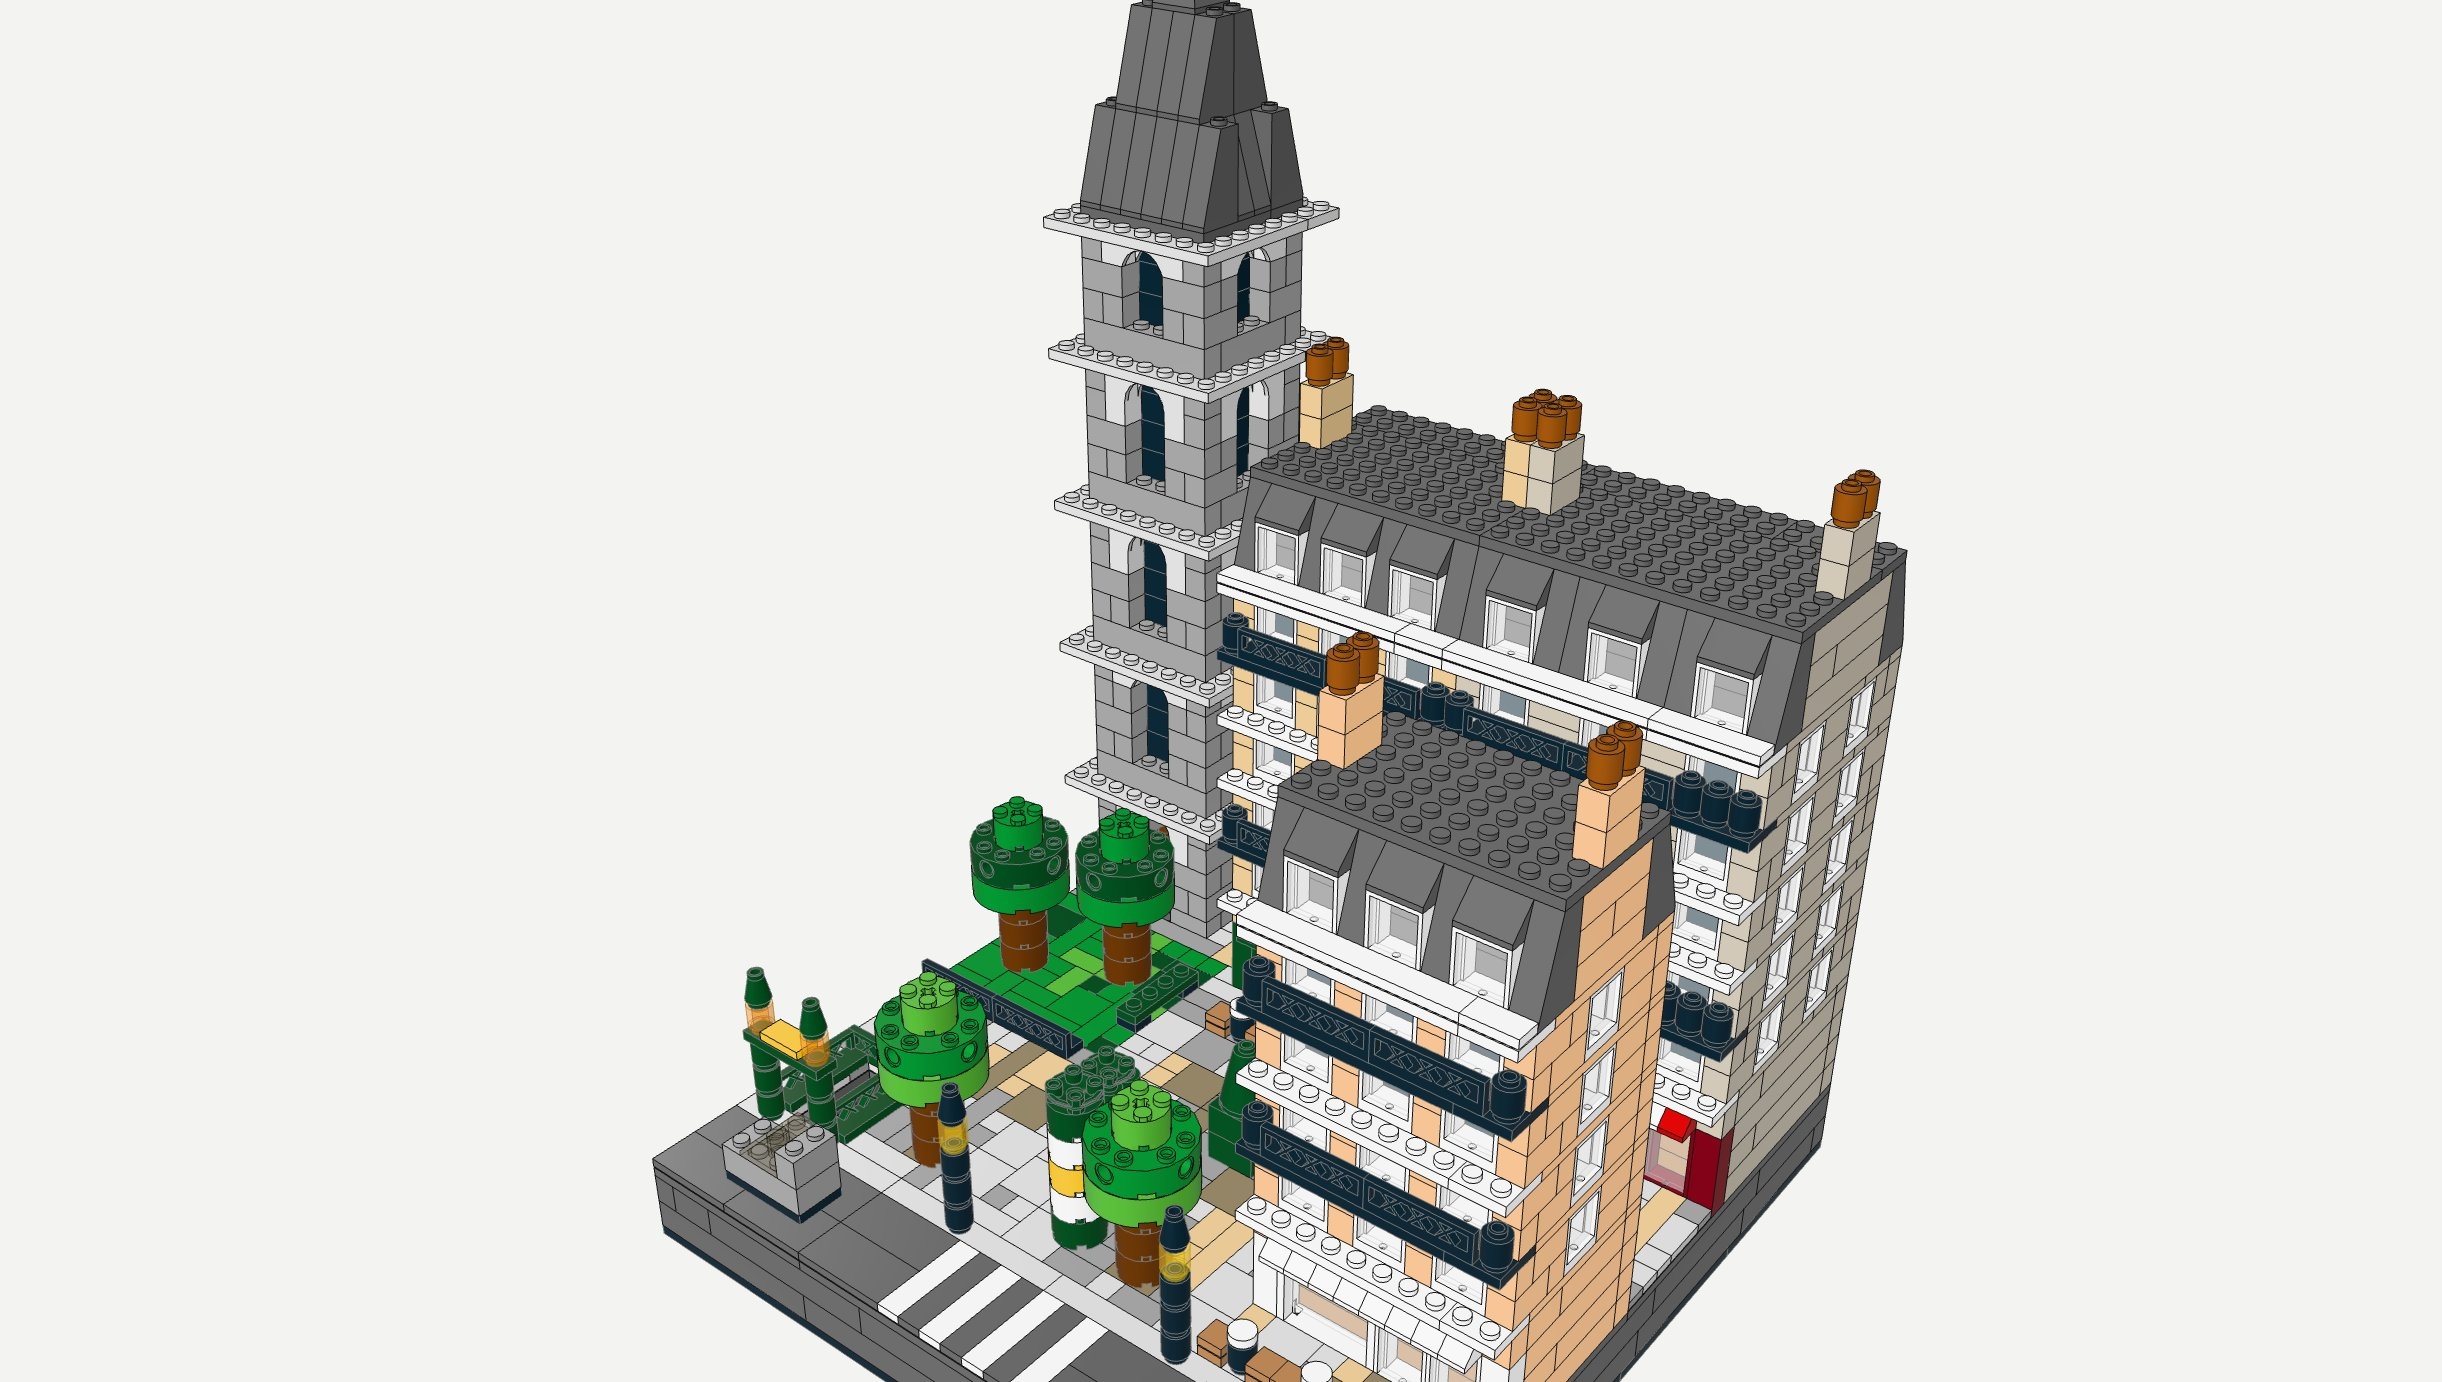
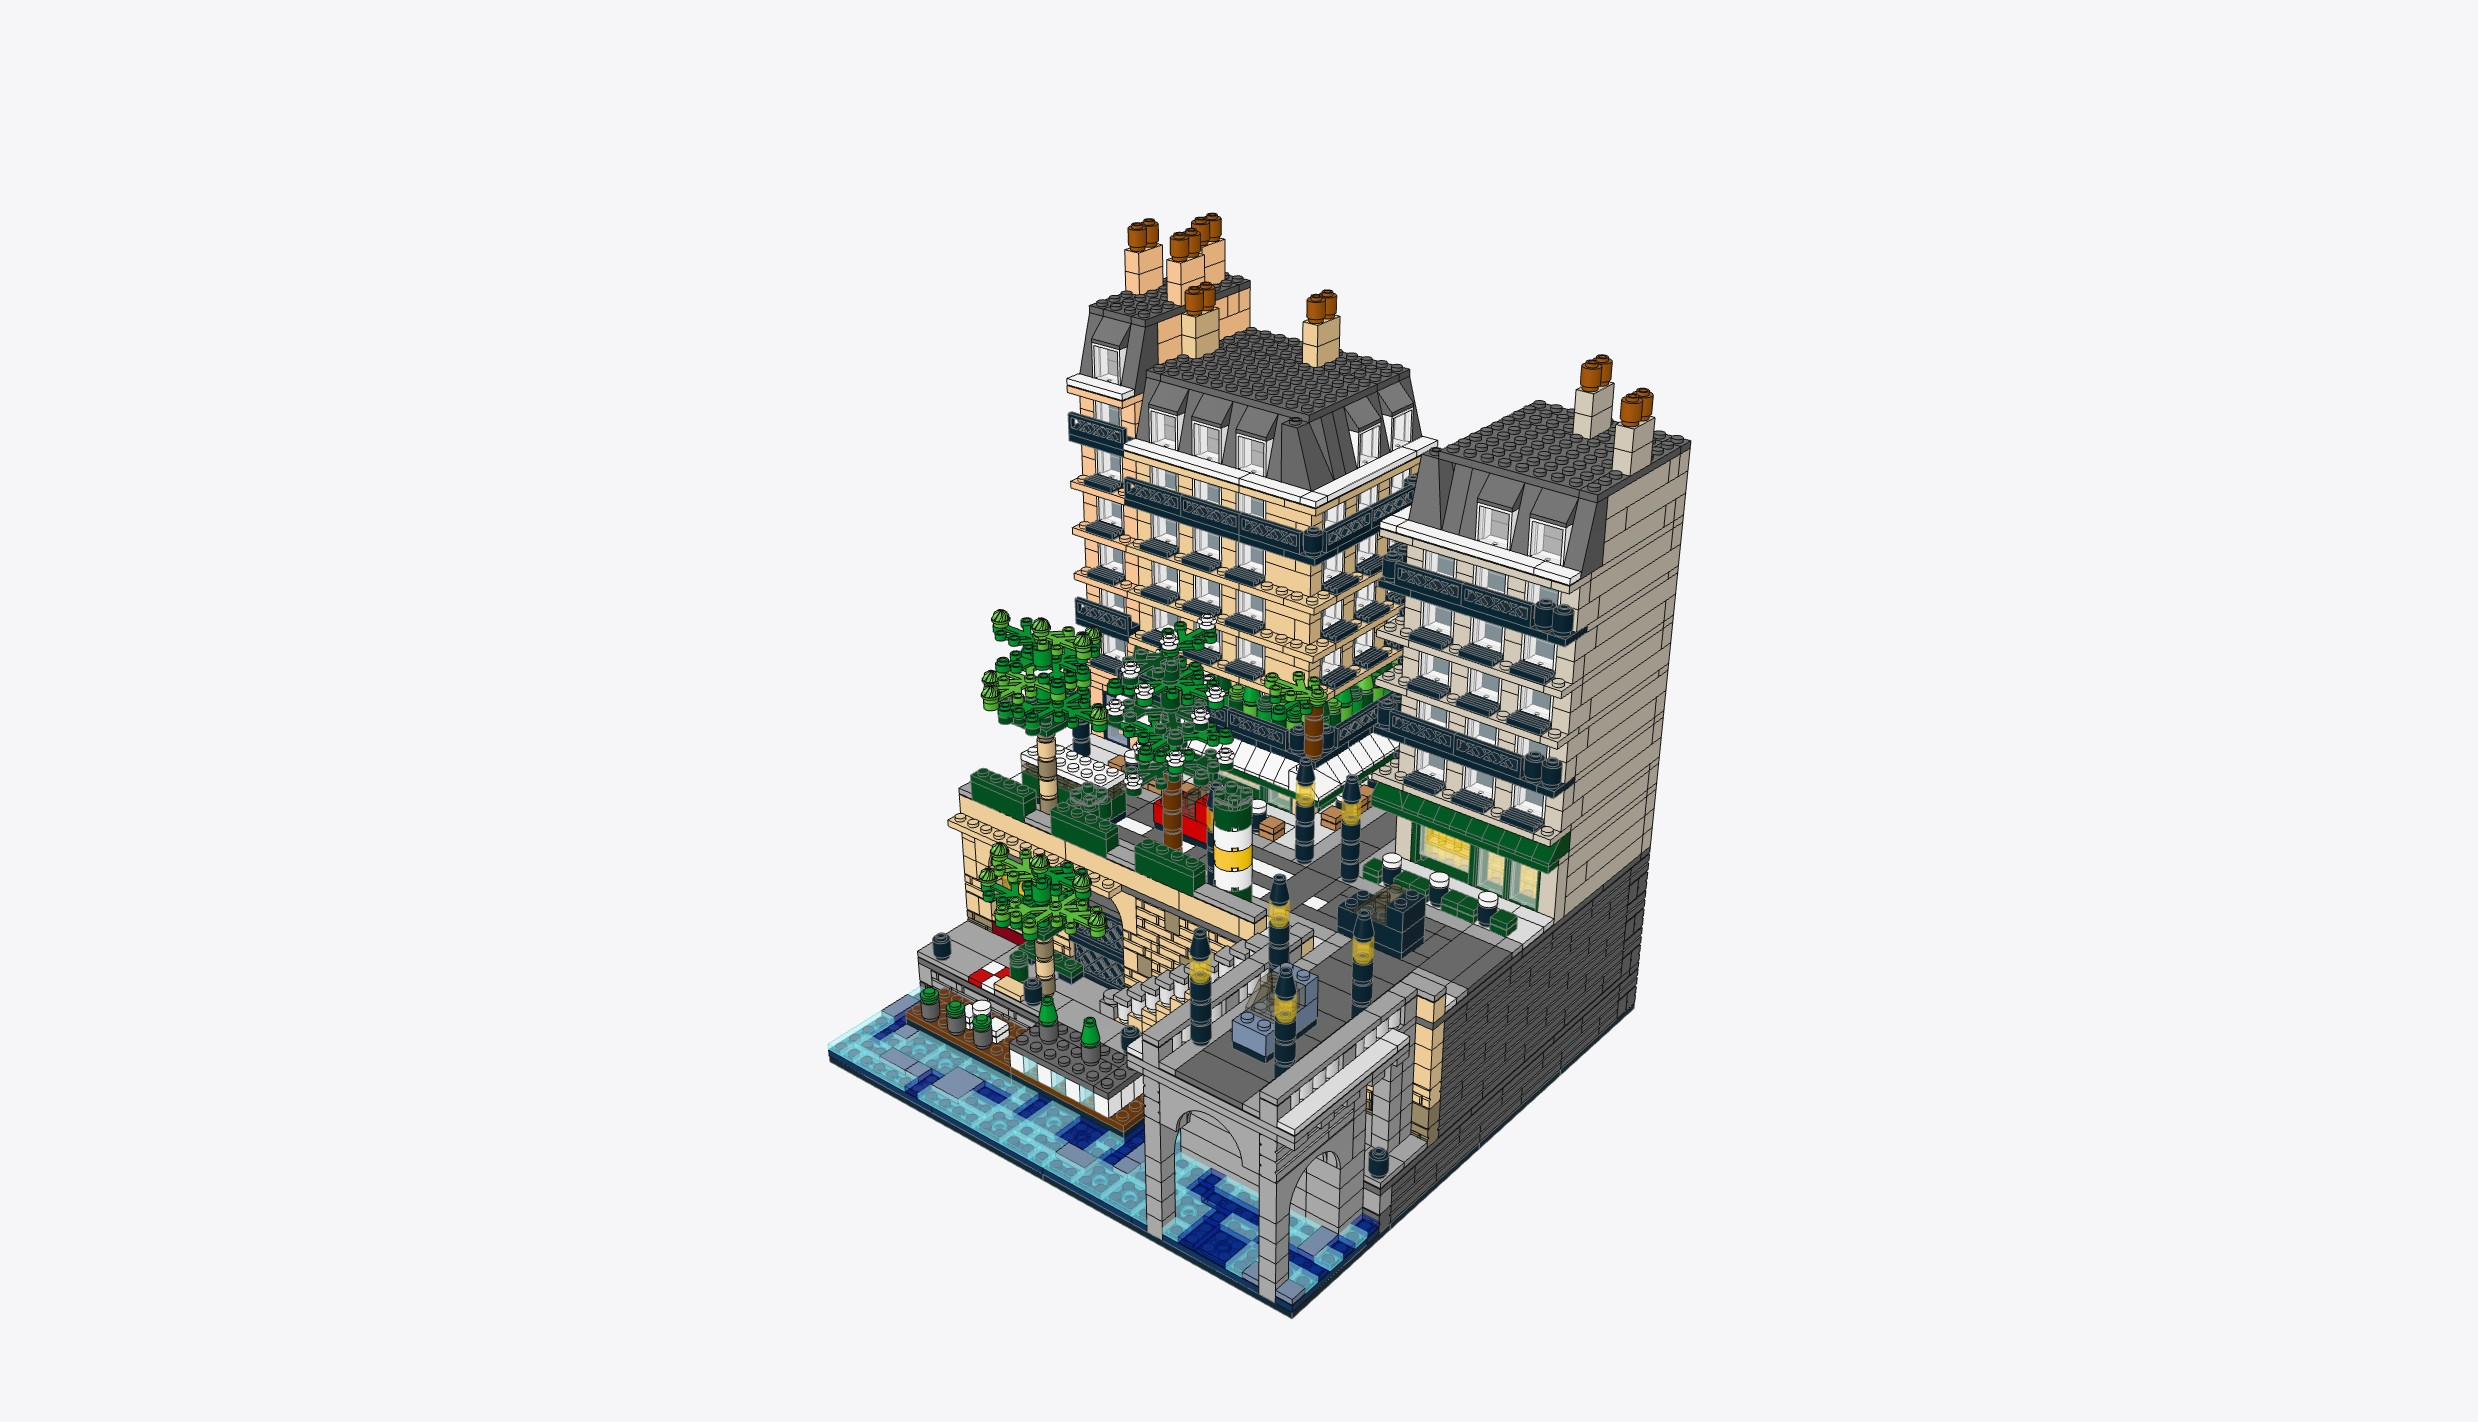
Gallery: new Paris and London builds, README images

Changed region(s): [[0.249, 0.0, 0.7781, 1.0]]

diff --git a/README.md b/README.md
@@ -16,9 +16,9 @@ Shape tools (`walls`, `fill`, `roof`) versus brick-by-brick only, same Holo, sam
 
 Showcase dioramas, hand-scripted by Claude through the same validated workbench (`python -m brickyard.showcase paris|hogwarts|london`):
 
-| Place Saint-Germain-des-Prés (32x32, 1,832 pieces) | Hogwarts (64x64, 5,294 pieces) | Westminster (48x48, 2,771 pieces) |
+| Paris, the Seine at Saint-Germain (32x32, 2,169 pieces) | Hogwarts (64x64, 5,294 pieces) | London in layers (32x32, 1,555 pieces) |
 | --- | --- | --- |
-| ![Paris](docs/paris.jpg) | ![Hogwarts](docs/hogwarts.jpg) | ![Westminster](docs/london.jpg) |
+| ![Paris](docs/paris.jpg) | ![Hogwarts](docs/hogwarts.jpg) | ![London](docs/london.jpg) |
 
 ```
 web (Vite + React + three.js)                         server (FastAPI)
